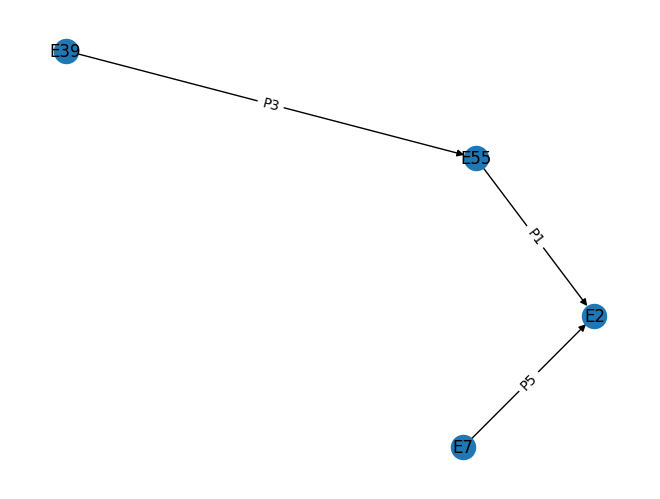
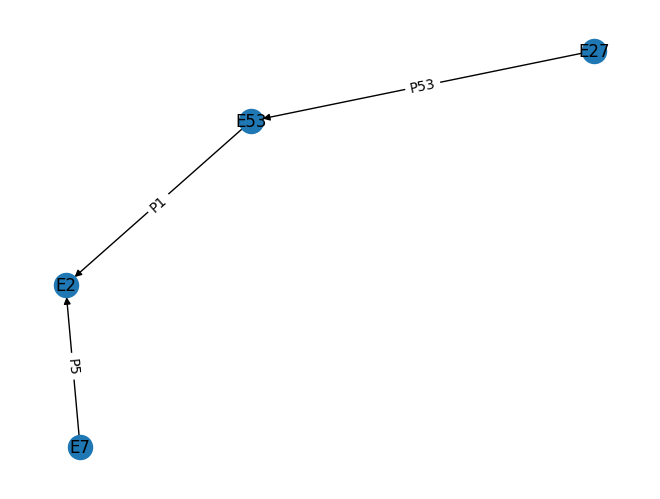
common graph parser

diff --git a/test-projects/cmn_subgraph.py b/test-projects/cmn_subgraph.py
@@ -9,36 +9,35 @@ import numpy as np
 G1 = nx.DiGraph()
 G2 = nx.DiGraph()
 
-# Add nodes
+# G1
 G1.add_nodes_from([1, 2, 3, 4])
-G2.add_nodes_from([1, 2, 3, 4])
-
-# %%
-### G1 ###############################################
 G1.add_edges_from([(1, 2), (2, 3), (3, 4)])
-G1_attrs_edges = {(1, 2): {"property": 'P3'}, (2, 3): {"property": 'P4'}, (3, 4):{"property": 'P5'}}
-nx.set_edge_attributes(G1, G1_attrs_edges)
-G1_attrs_nodes = {1: {"entity": 'E39'}, 2: {"entity": 'E55'}, 3:{"entity": 'E2'}, 4:{"entity": 'E7'}}
+G1_attrs_nodes = {1: {"entity": 'E27'}, 2: {"entity": 'E53'}, 3:{"entity": 'E2'}, 4:{"entity": 'E7'}}
+G1_attrs_edges = {(1, 2): {"property": 'P53'}, (2, 3): {"property": 'P4'}, (3, 4):{"property": 'P5'}}
 nx.set_node_attributes(G1, G1_attrs_nodes)
+nx.set_edge_attributes(G1, G1_attrs_edges)
+
+# G2
+G2.add_nodes_from([1, 2, 3, 4])
+G2.add_edges_from([(1, 2), (2, 3), (4, 3)])
+G2_attrs_nodes = {1: {"entity": 'E27'}, 2: {"entity": 'E53'}, 3:{"entity": 'E2'}, 4:{"entity": 'E7'}}
+G2_attrs_edges = {(1, 2): {"property": 'P53'}, (2, 3): {"property": 'P1'}, (4, 3):{"property": 'P5'}}
+nx.set_node_attributes(G2, G2_attrs_nodes)
+nx.set_edge_attributes(G2, G2_attrs_edges)
 
 # %%
 # Plot G1
+
 p = nx.spring_layout(G1)
+
 G1_labels_nodes = nx.get_node_attributes(G1, 'entity')
 G1_labels_edges = nx.get_edge_attributes(G1, 'property')
 nx.draw(G1, pos=p, labels = G1_labels_nodes, with_labels = True)
 nx.draw_networkx_edge_labels(G1, pos=p, edge_labels = G1_labels_edges)
 
 # %%
-### G2 ########################################################
-G2.add_edges_from([(1, 2), (2, 3), (4, 3)])
-G2_attrs_edges = {(1, 2): {"property": 'P3'}, (2, 3): {"property": 'P1'}, (4, 3):{"property": 'P5'}}
-nx.set_edge_attributes(G2, G2_attrs_edges)
-G2_attrs_nodes = {1: {"entity": 'E39'}, 2: {"entity": 'E55'}, 3:{"entity": 'E2'}, 4:{"entity": 'E7'}}
-nx.set_node_attributes(G2, G2_attrs_nodes)
+# Plot G2
 
-# %%
-# Plot G2 with the same layout
 G2_labels_nodes = nx.get_node_attributes(G2, 'entity')
 G2_labels_edges = nx.get_edge_attributes(G2, 'property')
 nx.draw(G2, pos=p, labels = G2_labels_nodes, with_labels = True)
@@ -95,7 +94,7 @@ df_G1_only = df_G1xG2[df_G1xG2['_merge'] == 'left_only']
 df_G2_only = df_G1xG2[df_G1xG2['_merge'] == 'right_only']
 df_G_both = df_G1xG2[df_G1xG2['_merge'] == 'both']
 
-print(df_G_both)
+print(df_G_both.to_markdown())
 
 
 # %%
@@ -130,6 +129,7 @@ df_all_match['source_id'] = df_all_match["source"] + '_' + df_all_match["G"]
 df_all_match['target_id'] = df_all_match["target"] + '_' + df_all_match["G"]
 
 print(df_all_match)
+
 
 # %%
 # split 'both' between 1 and 2
@@ -195,13 +195,16 @@ for i in boths:
 	df_both['id_source'] = df_both['id_source'].replace([id_target_to_change], id_target_to_keep)
 	df_both['id_target'] = df_both['id_target'].replace([id_target_to_change], id_target_to_keep)
 
+print(df_both)
+
 # %%
+# plot the final graph
 
 # colors
 conditions = [
     (df_both['G'] == '1'),
     (df_both['G'] == '2')]
-choices = ['red', 'blue']
+choices = ['red', 'green']
 df_both['color'] = np.select(conditions, choices, default='black')
 
 # load with attributes

diff --git a/test-projects/README.md b/test-projects/README.md
@@ -1,25 +1,53 @@
 # Comparing Resource Models
 
-Given Arches Resource Models (RM) CIDOC-CRM compliants coming from different projects, the aim is to identify which are the commons subgraphs (ie, same minimal common semantisation).
+Given Arches Resource Models (RM) CIDOC-CRM compliants coming from different projects, the aim is to identify which are the commons subgraphs. 
 
-Corresponding Python code chunks are provided (click on 🐍)
+## Common subgraph definition
+
+Common subgraph are minimal common semantisation shared by two different graphs. That is to say, a commom triple '*subject-predicate-object*' For example:
+
+<p align="center">
+  <img src="../www/lod-cidoc-arches-ex1.png" width="750">
+  <br>
+  <em>Semantisation of the Heritage place (E27_Site) and its geometry (E53_Place) through the property 'location' (P53_has_former_or_current_location) in the Heritage place Ressource Model (database: EAMENA)</em>
+</p>
+
+Where:
+
+* E27_Site: is the *subject*
+* E53_Place: is the *predicate*
+* P53_has_former_or_current_location: is the *object*
+
+This is the graph representation of this semantisation:
+
+```mermaid
+flowchart LR
+    A((E27)):::pydef --P53--> B((E53)):::pydef;
+	classDef pydef fill:#1f78b4;
+```
+
+This is the dataframe representation of this semantisation:
+
+|    | source   | target   | property   |
+|---:|:---------|:---------|:-----------|
+|  0 | E27      | E53      | P53        |
 
 ## Pairwise comparison
 
-Given these two directed graphs (see [🐍](https://github.com/achp-project/cultural-heritage/blob/7329f1e970a9e5ab3f217961e47bb743fe56d2dc/test-projects/ged_example_2.py#L7C1-L45))
+Given these two directed graphs
 
 <p align="center">
-  <img alt="img-name" src="../www/rm-compar-g1.png" width="500">
-  <img alt="img-name" src="../www/rm-compar-g2.png" width="500">
+  <img src="../www/rm-compar-g1.png" width="500">
+  <img src="../www/rm-compar-g2.png" width="500">
   <br>
-    <em>Comparison between G1 and G2</em>
+    <em>Comparison between G1 and G2, where 'E' are CIDOC-CRM entities and 'P' are CIDOC-CRM properties</em>
 </p>
 
 There's only one common subgraph between G1 and G2[^1]:
 
 ```mermaid
 flowchart LR
-    A((E39)):::pydef --P3--> B((E55)):::pydef;
+    A((E27)):::pydef --P53--> B((E53)):::pydef;
 	classDef pydef fill:#1f78b4;
 ```
 
@@ -27,29 +55,35 @@ The dataframe views of G1 and G2 are respectively:
 
 |    | source   | target   | property   |
 |---:|:---------|:---------|:-----------|
-|  0 | E39      | E55      | P3         |
-|  1 | E55      | E2       | P4         |
+|  0 | E27      | E53      | P53        |
+|  1 | E53      | E2       | P4         |
 |  2 | E2       | E7       | P5         |
 
 and:
 
 |    | source   | target   | property   |
 |---:|:---------|:---------|:-----------|
-|  0 | E39      | E55      | P3         |
-|  1 | E55      | E2       | P1         |
+|  0 | E27      | E53      | P53        |
+|  1 | E53      | E2       | P1         |
 |  2 | E7       | E2       | P5         |
 
-(see [🐍](https://github.com/achp-project/cultural-heritage/blob/7329f1e970a9e5ab3f217961e47bb743fe56d2dc/test-projects/ged_example_2.py#L47-L78
-))
+### Common subgraph
 
 The common row (ie common subgraph) between G1 and G2 is:
 
 |    | source   | target   | property   |
 |---:|:---------|:---------|:-----------|
-|  0 | E39      | E55      | P3         |
+|  0 | E27      | E53      | P53        |
 
-(see [🐍](https://github.com/achp-project/cultural-heritage/blob/7329f1e970a9e5ab3f217961e47bb743fe56d2dc/test-projects/ged_example_2.py#L81-L87
-))
+
+### Plot
+
+<p align="center">
+  <img src="../www/rm-compar-g_both.png" width="750">
+  <br>
+    <em>Merged graphs on their common subgraph (in black)</em>
+</p>
+
 
 
 [^1]: Indeed, the second edges (`E55` -- `E2`) have different proprieties (`P4` and `P1`); the third edges (`E2` -- `E7`) have the same proprieties (`P5`) but different directions (`E2` --> `E7`; `E2` <-- `E7`)
